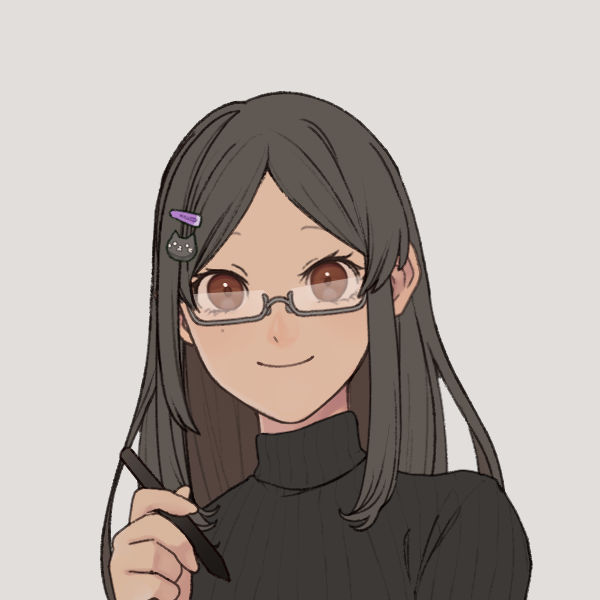
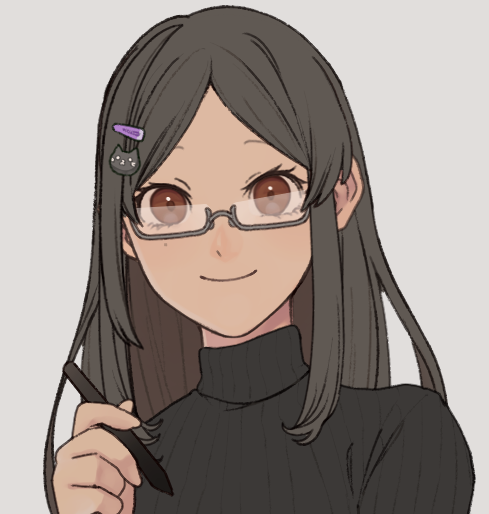
fix/style: adjust border width/crop image

diff --git a/src/components/Banner/styles.ts b/src/components/Banner/styles.ts
@@ -19,6 +19,6 @@ export const Container = styled.div`
     width: 230px;
     height: 230px;
 
-    border: 10px solid var(--secondary);
+    border: 2px solid var(--secondary);
   }
 `;
